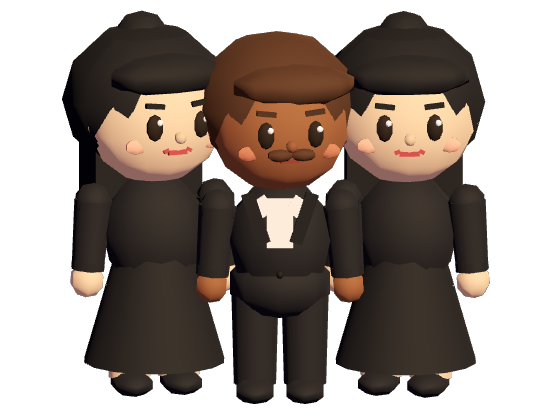
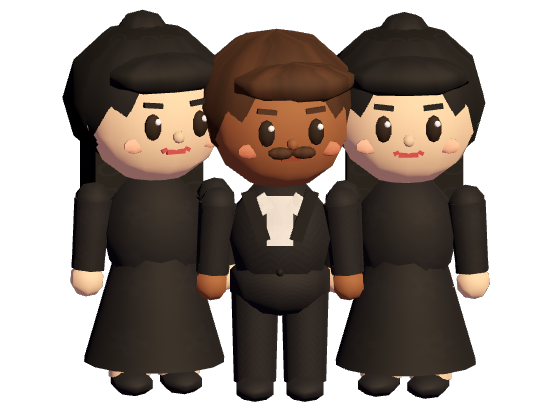
client: fabric, hair and skin textures on the characters
- tools/art/build_textures.py writes people_atlas.png: 16 greyscale cells
  (skin, cotton, knit, denim, wool, pinstripe, hair, leather, fleece,
  satin, linen, a folk floral print, plaid, stripes, felt, lace) that the
  vertex colours tint.
- The mesh builder can squeeze a primitive's UVs into an atlas cell and
  force one material for a whole character; people3d.gd maps every part
  to its cell (knit cardigans, fleece hoodies, plaid and striped shirts,
  denim, tweed and pinstripe suits, satin dresses, a lace veil, a floral
  marama, felt hats, leather shoes, hair strands), still one draw call
  per character.
- Band and guest pictures re-rendered.

Claude-Session: https://claude.ai/code/session_012dyuhA4em2pijdFsXywCNb

diff --git a/tools/art/build_textures.py b/tools/art/build_textures.py
@@ -409,6 +409,115 @@ def slot_marker(name: str) -> None:
     img.save(OUT / f"{name}.png", optimize=True)
 
 
+# ---------------------------------------------------------------------------------------------
+# People: one atlas of fabrics, hair, skin and leather for the characters
+# ---------------------------------------------------------------------------------------------
+
+PEOPLE_CELL = 256
+# Cell order, left to right and top to bottom; client/scripts/world3d/people3d.gd names them.
+PEOPLE_CELLS = [
+    "skin", "cotton", "knit", "denim",
+    "wool", "pinstripe", "hair", "leather",
+    "fleece", "satin", "linen", "floral",
+    "plaid", "stripes", "felt", "lace",
+]
+
+
+def _people_cell(kind: str, seed: int) -> np.ndarray:
+    """A greyscale detail map (about 0.6..1.0) that the character's vertex colour tints.
+
+    Every cell wraps left to right, so the seam at the back of a body or a head does not show.
+    """
+    n = PEOPLE_CELL
+    y, x = np.mgrid[0:n, 0:n].astype(np.float32)
+    soft = noise(n, 8, seed, 4)
+    fine = noise(n, 64, seed + 1, 2)
+    two_pi = 2 * math.pi
+    if kind == "skin":
+        out = 0.95 + 0.04 * soft + 0.015 * fine
+    elif kind == "cotton":
+        weave = 0.5 + 0.25 * np.sin(x * two_pi / 4) + 0.25 * np.sin(y * two_pi / 4)
+        creases = noise(n, 4, seed + 5, 3)
+        out = 0.8 + 0.05 * weave + 0.13 * creases + 0.03 * fine
+    elif kind == "knit":
+        # Vertical ribs of V stitches.
+        rib = np.abs(((x / 16.0) % 1.0) - 0.5) * 2
+        stitch = np.abs((((y + np.abs((x % 16) - 8)) / 12.0) % 1.0) - 0.5) * 2
+        out = 0.68 + 0.2 * (1 - rib) + 0.08 * (1 - stitch) + 0.05 * soft
+    elif kind == "denim":
+        twill = 0.5 + 0.5 * np.sin((x + y * 2) * two_pi / 8)
+        seam = np.exp(-(((x % 128) - 64) / 2.5) ** 2)
+        out = 0.72 + 0.08 * twill + 0.16 * soft + 0.04 * fine + 0.12 * seam
+    elif kind == "wool":
+        # Fine herringbone.
+        band = (x // 16).astype(int) % 2
+        slope = np.where(band == 0, x + y, y - x)
+        out = 0.8 + 0.1 * (0.5 + 0.5 * np.sin(slope * two_pi / 10)) + 0.06 * soft + 0.03 * fine
+    elif kind == "pinstripe":
+        stripe = (np.abs(((x / 16.0) % 1.0) - 0.5) < 0.05).astype(np.float32)
+        out = 0.82 + 0.06 * soft + 0.03 * fine + 0.18 * stripe
+    elif kind == "hair":
+        # Strands run down the head (along v), with a soft shine band near the crown.
+        streak = np.tile(noise(n, 32, seed + 4, 2)[:1], (n, 1))
+        shine = np.exp(-((y - n * 0.3) / (n * 0.08)) ** 2)
+        out = 0.66 + 0.26 * streak + 0.12 * shine * streak + 0.04 * soft
+    elif kind == "leather":
+        out = 0.86 + 0.08 * soft + 0.05 * np.exp(-((y - n * 0.35) / (n * 0.1)) ** 2)
+    elif kind == "fleece":
+        out = 0.84 + 0.1 * soft + 0.05 * fine
+    elif kind == "satin":
+        # A soft sheen with a small damask flower repeat.
+        cx = (x % 64) - 32
+        cy = (y % 64) - 32
+        r = np.sqrt(cx * cx + cy * cy)
+        petals = np.cos(np.arctan2(cy, cx) * 5) * 4
+        flower = ((r < 12 + petals) & (r > 3)).astype(np.float32)
+        out = 0.84 + 0.06 * np.sin(y * two_pi / n * 2) + 0.08 * flower + 0.03 * soft
+    elif kind == "linen":
+        weave = 0.5 + 0.25 * np.sin(x * two_pi / 3) + 0.25 * np.sin(y * two_pi / 3)
+        folds = 0.5 + 0.5 * np.sin(x * two_pi / 64 + soft * 2)
+        out = 0.86 + 0.05 * weave + 0.07 * folds + 0.02 * fine
+    elif kind == "floral":
+        # A folk-print headscarf: light flowers with darker leaves on a mid ground.
+        out = 0.7 + 0.04 * soft
+        for cx0, cy0, size in [(32, 32, 24), (96, 96, 18), (160, 32, 24), (224, 96, 18),
+                               (32, 160, 18), (96, 224, 24), (160, 160, 18), (224, 224, 24)]:
+            dx = (x - cx0 + n / 2) % n - n / 2
+            dy = (y - cy0 + n / 2) % n - n / 2
+            r = np.sqrt(dx * dx + dy * dy)
+            angle = np.arctan2(dy, dx)
+            petal = r < size * (0.7 + 0.3 * np.cos(angle * 5))
+            leaf = (np.abs(dx - size) < size * 0.4) & (np.abs(dy + size * 0.4) < size * 0.2)
+            out = np.where(leaf, 0.45, out)
+            out = np.where(petal, 1.0, out)
+            out = np.where(r < size * 0.25, 0.8, out)
+    elif kind == "plaid":
+        vx = ((x // 16).astype(int) % 4 == 0).astype(np.float32)
+        vy = ((y // 16).astype(int) % 4 == 0).astype(np.float32)
+        thin_x = (np.abs((x % 64) - 40) < 2).astype(np.float32)
+        thin_y = (np.abs((y % 64) - 40) < 2).astype(np.float32)
+        out = 0.95 - 0.16 * vx - 0.16 * vy - 0.1 * thin_x - 0.1 * thin_y + 0.03 * fine
+    elif kind == "stripes":
+        out = np.where((y // 16).astype(int) % 2 == 0, 1.0, 0.72) + 0.03 * soft
+    elif kind == "felt":
+        out = 0.8 + 0.12 * fine + 0.06 * soft
+    else:  # lace
+        cx = (x % 32) - 16
+        cy = (y % 32) - 16
+        r = np.sqrt(cx * cx + cy * cy)
+        out = np.where((r > 6) & (r < 9), 1.0, 0.62) + 0.08 * ((np.abs(cx) < 1) | (np.abs(cy) < 1))
+    return np.clip(out, 0.0, 1.0)
+
+
+def people_atlas() -> None:
+    n = PEOPLE_CELL
+    atlas = np.zeros((n * 4, n * 4, 3), np.float32)
+    for index, kind in enumerate(PEOPLE_CELLS):
+        row, col = divmod(index, 4)
+        atlas[row * n:(row + 1) * n, col * n:(col + 1) * n] = _people_cell(kind, 100 + index * 7)[..., None] * 255.0
+    save("people_atlas", atlas)
+
+
 def main() -> None:
     OUT.mkdir(parents=True, exist_ok=True)
     planks("planks_rough", "#a8784a", 64, 1, "#3a2414", 0.18, weathered=True)
@@ -446,6 +555,7 @@ def main() -> None:
     sign("sign_restoran", "Restoran", "#1d2433", "#f3e8cf", "#0e1428")
     sign("sign_splav", "Splav", "#0f3346", "#ffffff", "#0b1d2a")
     slot_marker("slot")
+    people_atlas()
     radial("glow", 128, (255, 214, 140), 1.8)
     radial("pool", 256, (255, 196, 110), 1.3)
     radial("shadow", 128, (0, 0, 0), 1.2)

diff --git a/tools/README.md b/tools/README.md
@@ -63,7 +63,7 @@ The game world is built in 3D at run time (see `client/README.md`); these script
 textures, interface pieces and branding it uses:
 
 ```sh
-python tools/art/build_textures.py  # seamless floors, cloths, streets, walls, roofs, rugs, paintings, signs
+python tools/art/build_textures.py  # floors, cloths, streets, walls, roofs, rugs, paintings, signs, people atlas
 python tools/art/build_ui.py        # HUD pills, buttons, cards, glyphs, upgrade and event pictures
 python tools/art/build_fx.py        # thought clouds, emotes, coins, notes, "+" and fight dust
 python tools/art/build_sprites.py   # drink pictures and the coin and mood faces
@@ -71,7 +71,11 @@ python tools/art/build_key_art.py   # key art / boot splash and app icon (SVG; s
 ```
 
 - `build_textures.py` uses NumPy for seamless noise; tiling textures are 512×512 and are mapped
-  in world space by the game, so one texture covers floors and walls of any size.
+  in world space by the game, so one texture covers floors and walls of any size. It also
+  writes `people_atlas.png`: 16 greyscale cells (skin, cotton, knit, denim, wool, pinstripe,
+  hair, leather, fleece, satin, linen, a folk floral print, plaid, stripes, felt, lace) that
+  the characters' vertex colours tint; `people3d.gd` maps each body part into its cell, so a
+  character stays one draw call. The cell order is shared with `CELLS` in that script.
 - `build_ui.py` and `build_key_art.py` share `isokit.py`, a small outlined-isometric SVG kit used
   for the upgrade and event pictures.
 - The venue, band and guest pictures are renders of the 3D models: run

diff --git a/client/design/README.md b/client/design/README.md
@@ -23,7 +23,9 @@ reasoning and the reference games are in `research.md`.
 - Characters are chibi at 1.3× life size so they read on a phone (cars and trees are scaled to
   them): the head is about 40 % of the height, with dark oval eyes and a highlight, brows, rosy
   cheeks and a small smile; a rounded body, short limbs, round hands and shoes; hair as a cap
-  with a fringe; one material, so one draw call each. A readable silhouette per guest type
+  with a fringe. Clothes and hair carry fabric textures from one atlas (knit cardigans, denim,
+  plaid and striped shirts, pinstripe and tweed suits, satin dresses, a lace veil, a floral
+  marama, hair strands), so each character is still one material and one draw call. A readable silhouette per guest type
   (šajkača and moustache for penzioneri, a marama for their wives, hoodies for studenti, black
   for ožalošćeni, suits and dresses for svatovi, suits and ties for biznismeni, the long white
   apron for konobari).
